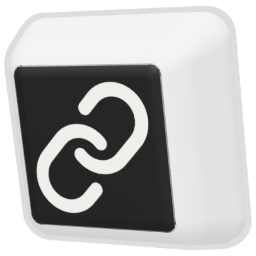
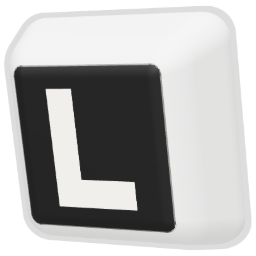
My page's keycap carries an L (#210)
* Comments: a switch of all pins by number, the picked one below

The client's comments start with every pin as a numbered switch (bare
pins dashed, resolved ones with a check, a red dot when the client asked
to redo). The picked pin opens below: a title and a question or change
for a bare pin, or its words and the conversation for a described one.
Replaces the New comment form and the row list on the client side.

Claude-Session: https://claude.ai/code/session_01XHHjZcsFk6KcB3zBR7AfAW

* Client portal at the dashboard's scale

Wider page (max-w-7xl, 380px side column), larger title, card titles,
steps, banners, details, contacts, PDF tile, pin switch and pin panel.

Claude-Session: https://claude.ai/code/session_01XHHjZcsFk6KcB3zBR7AfAW

* No glow around focused fields

Inputs, text areas, selects, input groups and the reply box show focus
with their border only; buttons keep a thin keyboard-focus line instead
of the soft halo, and invalid fields lose the red halo.

Claude-Session: https://claude.ai/code/session_01XHHjZcsFk6KcB3zBR7AfAW

* First steps for the client; the workshop gets the pin switch too

Before the first pin the client sees three small pictures (open the file,
tap where something is wrong, pick the number and write) and a button
that opens the file. The workshop's comments use the same switch of pins
by number with the picked comment and its conversation below; answering
several at once ticks numbers in the switch. The reply box wraps its
[…]

Changed region(s): [[0.125, 0.3125, 0.5938, 0.8438]]

diff --git a/src/components/Logo.tsx b/src/components/Logo.tsx
@@ -20,7 +20,7 @@ export function LogoMark({ className, surface = "auto" }: { className?: string; 
   )
 }
 
-/** My page's mark: the same keycap as Nodly's, with a link on it instead of the N. */
+/** My page's mark: the same keycap as Nodly's, an L (for Link) in place of the N. */
 export function LinkMark({ className }: { className?: string }) {
   const img = (src: string, extra?: string) => (
     // eslint-disable-next-line @next/next/no-img-element -- tiny static PNG, no optimisation needed
